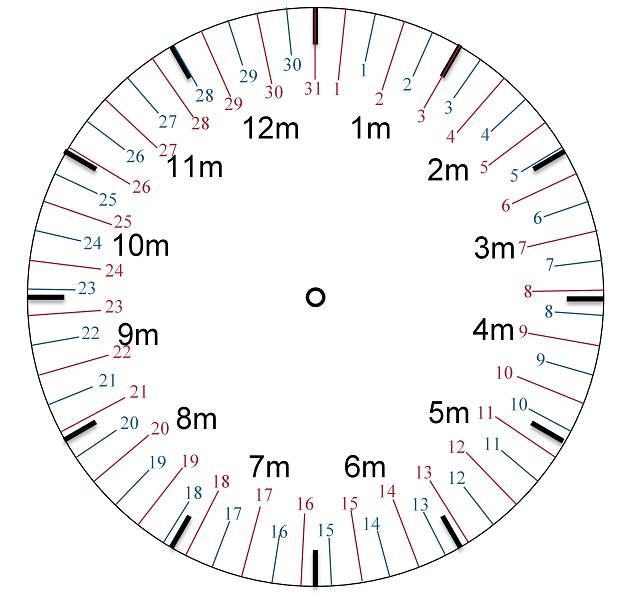
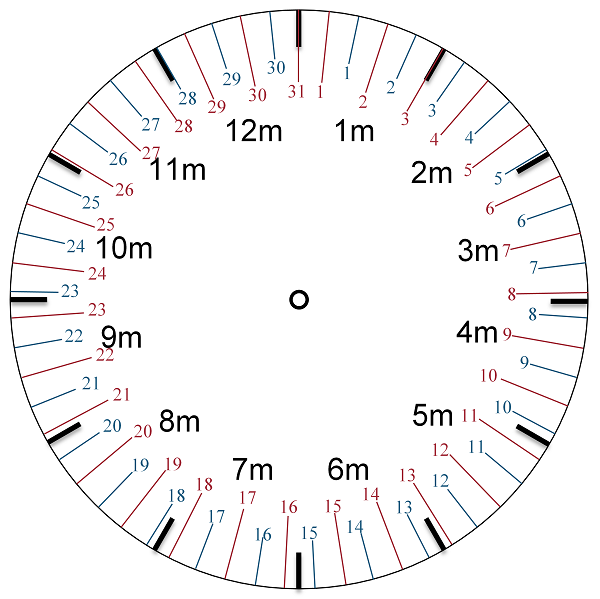
Update dial
Update Milesian clock dial for a better precision, change the hands lengh and add a motto on the dial.

diff --git a/Dial-clock/Milesian clock.html b/Dial-clock/Milesian clock.html
@@ -42,7 +42,6 @@ table.dateconvert {
 </head>
 <body>
 <h1 class="dateconvert">Horloge milésienne</h1>
-<p class="dateconvert">CERTUM MONSTRAT DIEM</p>
  <table class="dateconvert" align="center">
    <tbody>
 	 <form name="milesian" class="dateconvert" method="post" action="JavaScript:setClock();">
@@ -77,19 +76,23 @@ table.dateconvert {
 <p class="dateconvert">
 <!-- put svg code inline -->
 <!-- Scalable viewbox, centered in the middle at x=157, y = 150 -->
-<svg width="314" height="300" xml:lang="fr" onload="JavaScript:setDateToNow();"
-viewBox="-157 -150 314 300" preserveAspectRatio="xMidYMid meet">
+<svg width="300" height="100%" xml:lang="fr" onload="JavaScript:setDateToNow()"
+viewBox="-300 -300 600 600" preserveAspectRatio="xMidYMid meet"
+xmlns="http://www.w3.org/2000/svg" 
+xmlns:xlink="http://www.w3.org/1999/xlink">
 <!-- the dial -->
-<image xlink:href="Cadran_milesien_600.png" x="-157" y ="-150" width="314" height="300"/>
+<image xlink:href="Cadran_milesien_600.png" x="-300" y ="-300" width="600" height="599"/>
+<!-- the motto on the dial -->
+<text x="0" y="36" style="text-anchor:middle;font:'Times New Roman';font-size:12">CERTUM MONSTRAT DIEM</text>
 <!-- the month hand -->
   <g class="clockhand" id="monthhand" transform="rotate(0)"
-  style="fill:orange;stroke:darkgoldenrod;stroke-width:2px;">										
-	<polygon points="0,0 10,-30 0,-90 -10,-30" />
+  style="fill:orange;stroke:darkgoldenrod;stroke-width:4px;">										
+	<polygon points="0,0 20,-60 0,-165 -20,-60" />
   </g>
 <!-- the day hand -->
   <g class="clockhand" id="dayhand" transform="rotate(0)"
   style="fill:darkgoldenrod;stroke:darkgoldenrod;stroke-width:4px;stroke-linecap:round">									
-	<line x1="0" x2="0" y1="0" y2="-105" />
+	<line x1="0" x2="0" y1="0" y2="-200" />
   </g>
 <!-- finish with a center circle -->
 <circle r="7" style="fill:darkgoldenrod;"/>
